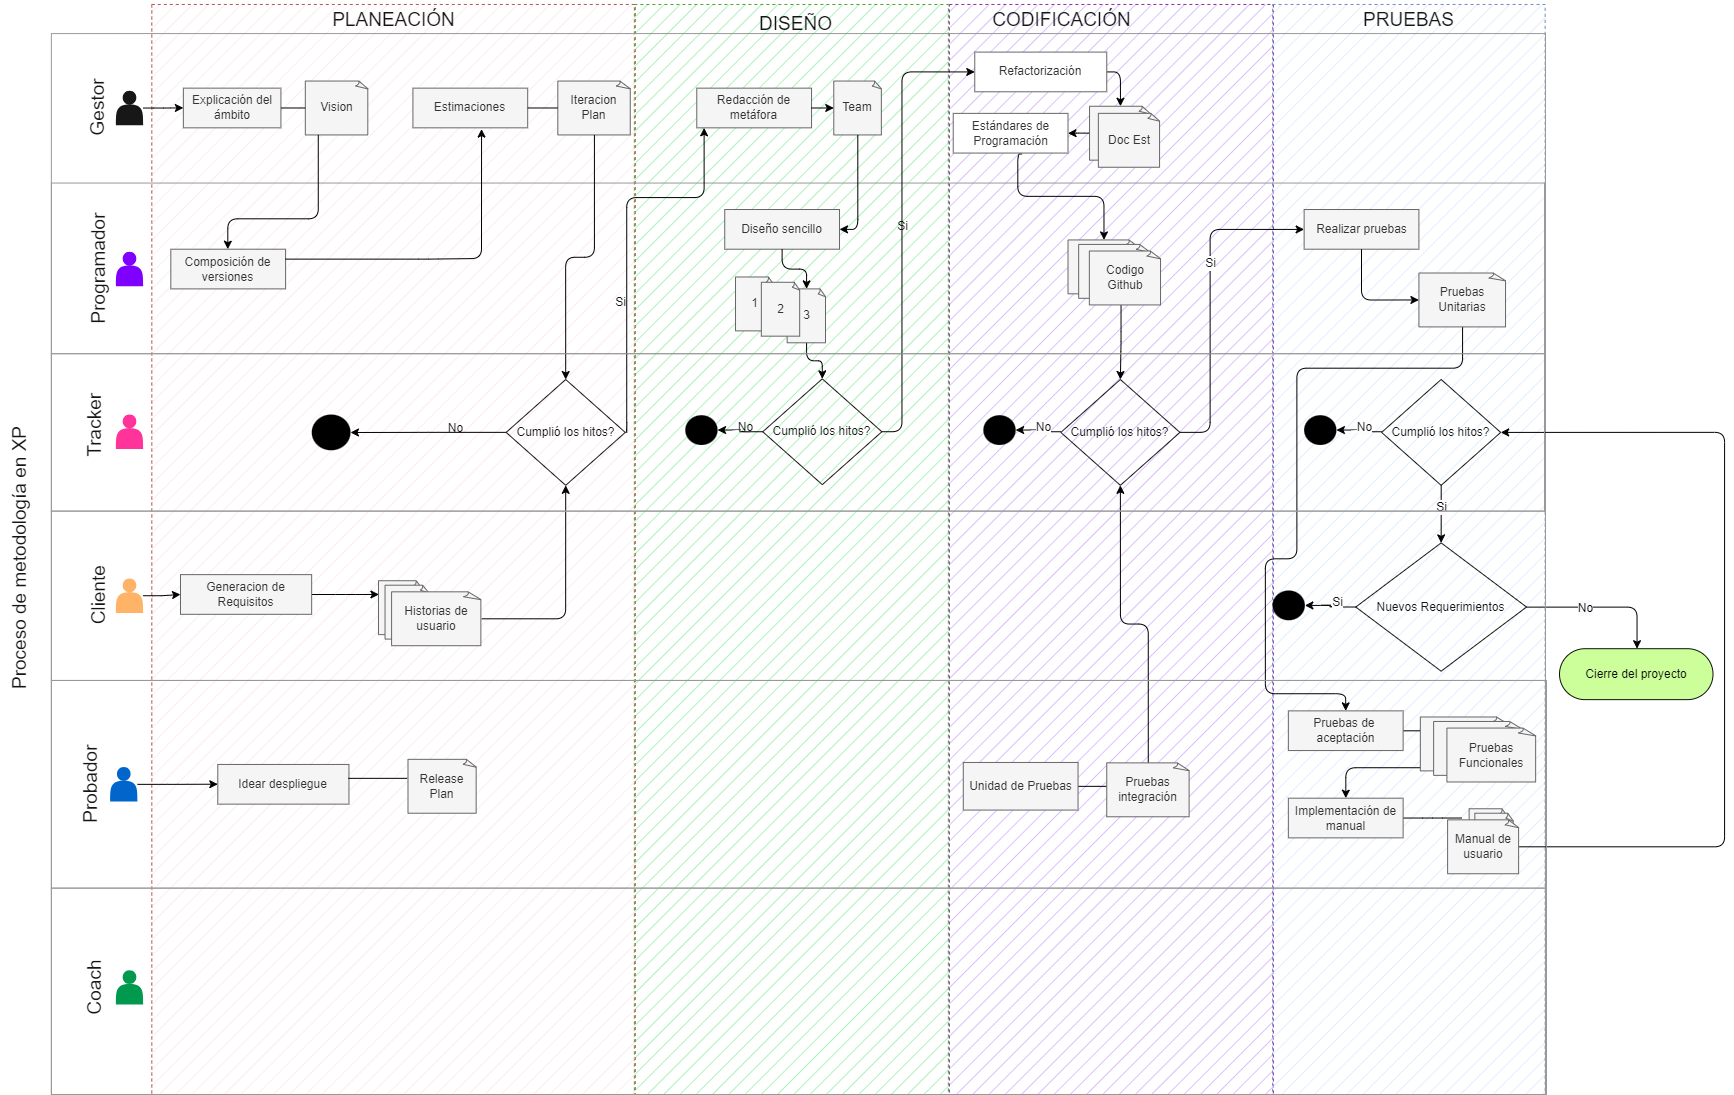
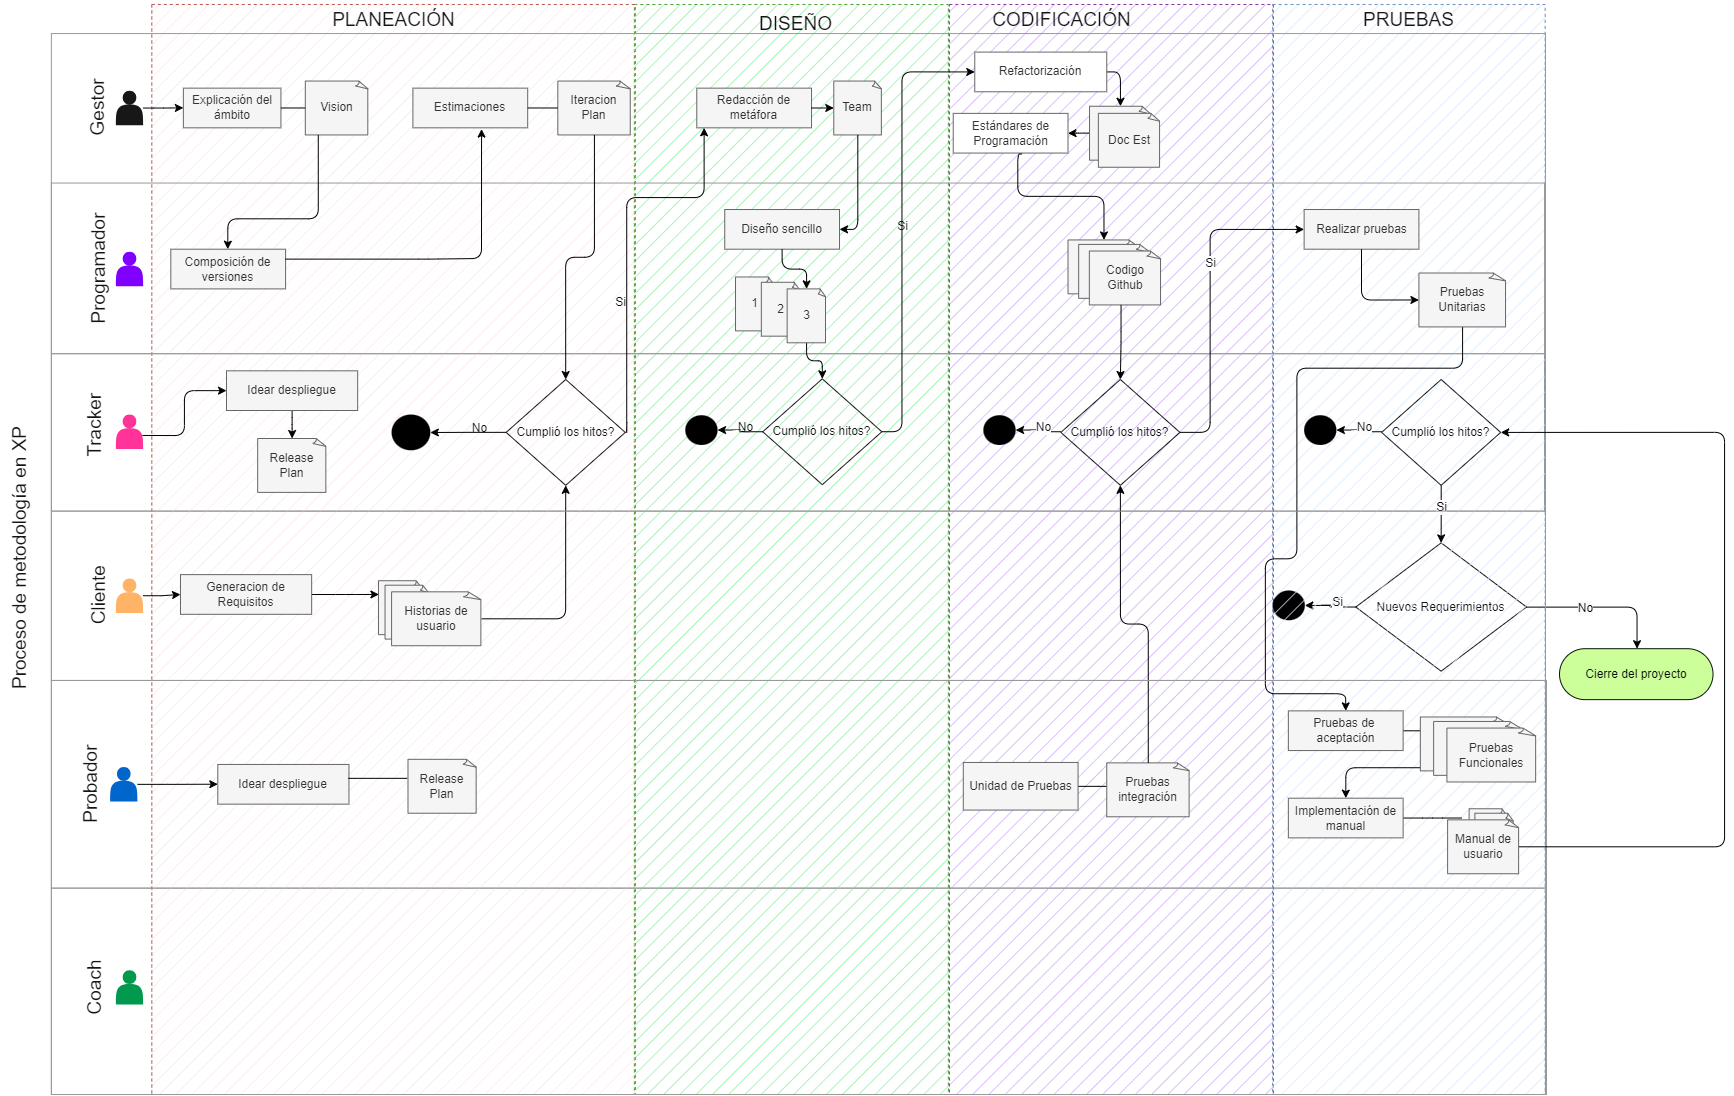
Update Workflow Diagram

diff --git a/Enlace_videos.md b/Enlace_videos.md
@@ -1,0 +1,44 @@
+<h1 align="center">
+    Escuela Politécnica Nacional<br>
+    Facultad de Ingeniería en Sistemas<br>
+    Metodologías Ágiles<br>
+</h1>
+
+### Grupo: 4
+
+### Integrantes
+- Kevin Revelo
+- Paúl Román
+- Jonathan Salazar
+- Santiago Salazar
+- Sebastián Sanchez
+- Nathaly Simba
+
+# Enlace de videos
+1. WorkFlow
+
+2. Team
+
+3. Visión
+
+4. Documento de estándares de programación
+
+5. Manual de Usuario
+
+6. Release Plan
+
+7. Diagrama conceptual
+
+8. Diagrama UML
+
+9. Prototipos
+
+10. Código colectivo
+
+11. Refactorización
+
+12. Pruebas unitarias
+
+13. Pruebas funcionales
+
+14. Criterios de aceptación
